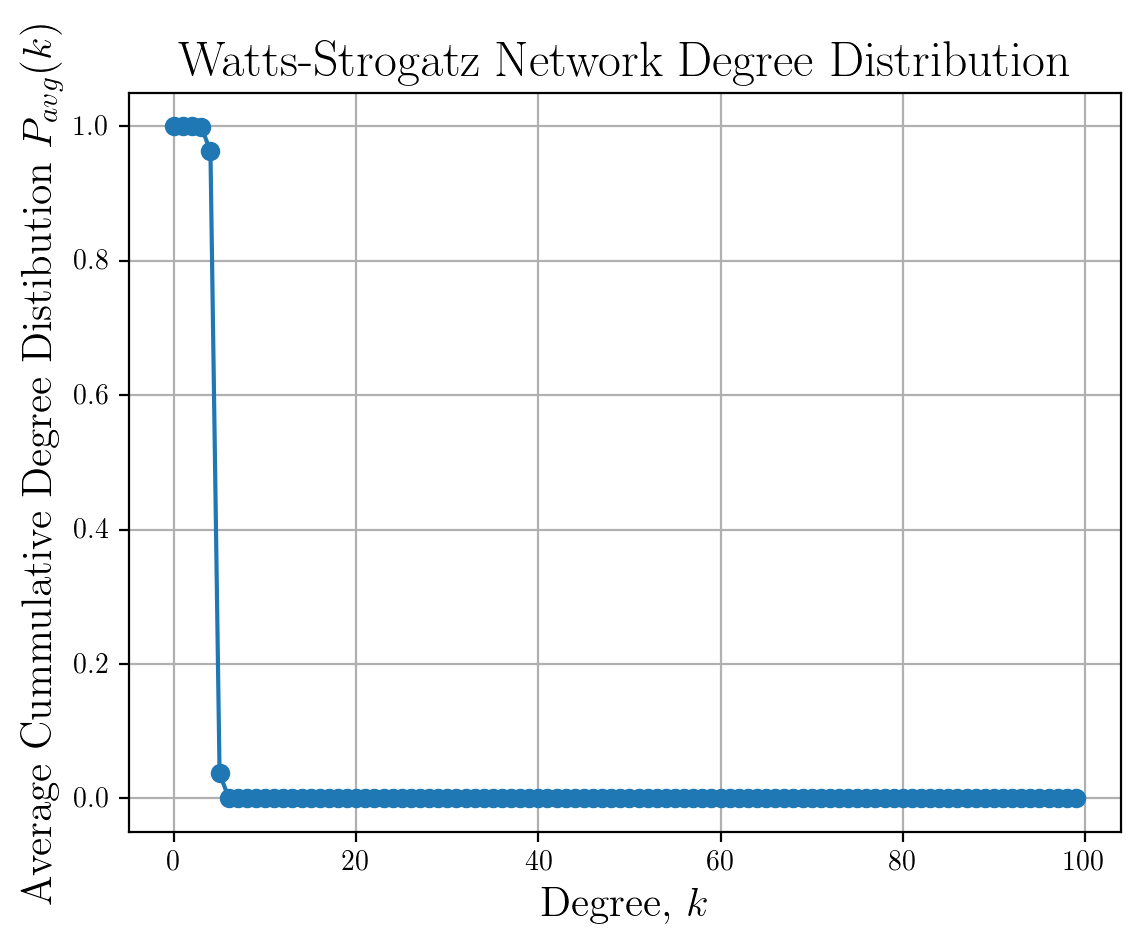
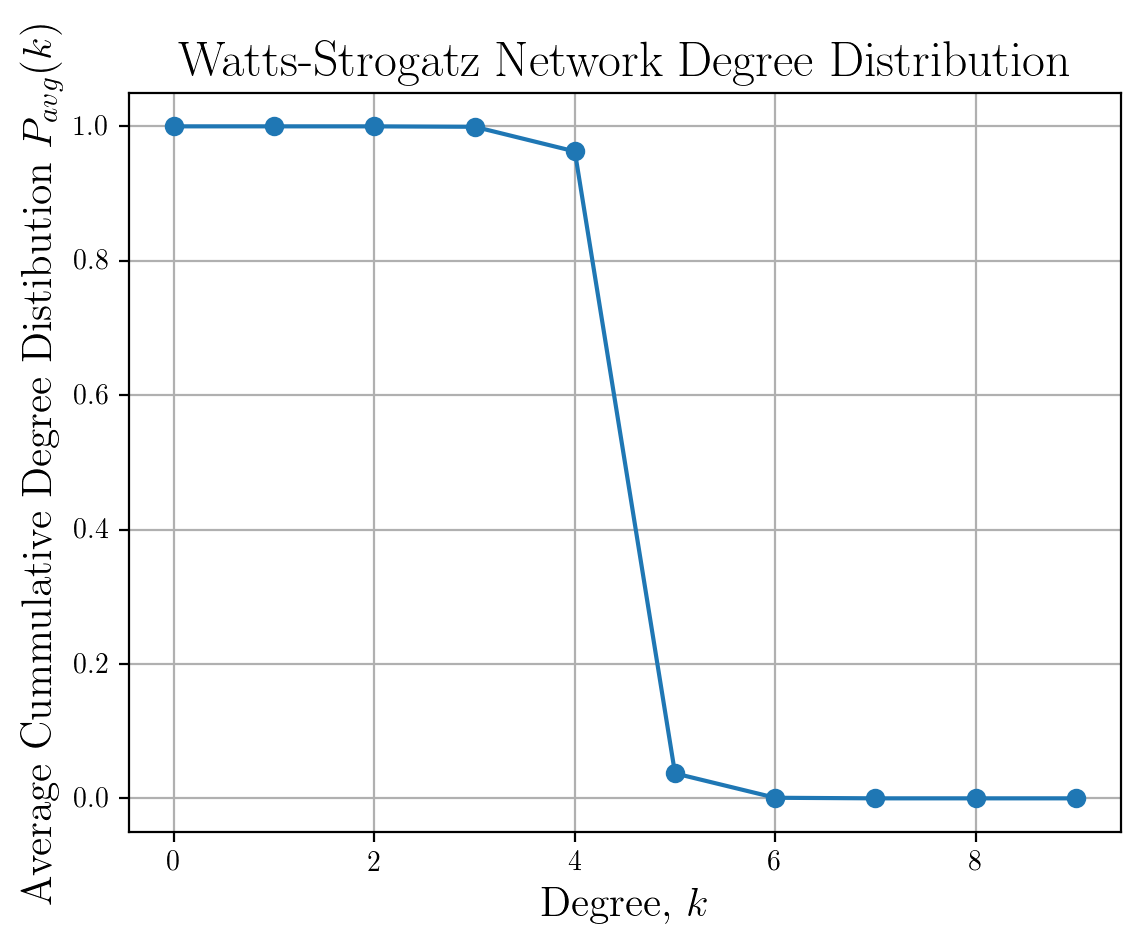
Plots corrigidos degree dist

diff --git a/Simulations/degree_dist.py b/Simulations/degree_dist.py
@@ -48,14 +48,17 @@ def degree_dist():
     for i in range(deg_max - 2, -1, -1):
         degree_freq[i] += degree_freq[i + 1]
 
-    # plt.rc('text', usetex=True)
-    # plt.rc('font', family='serif')
+    plt.rc('text', usetex=True)
+    plt.rc('font', family='serif')
 
     plot = plt.plot if model in (4, 5) else (plt.semilogy if model == 6 else plt.loglog)
     
     f1 = plt.figure()
     plot(range(deg_max), degree_freq, 'o-')
-    plt.ylabel(r'Average Cummulative Degree Distibution $P_{avg}(k)$', fontsize=15)
+    if model == 6 or model == 7:
+        plt.ylabel(r'Cummulative Degree Distibution $P_{avg}(k)$', fontsize=15)
+    else:
+        plt.ylabel(r'Average Cummulative Degree Distibution $P_{avg}(k)$', fontsize=15)
     plt.xlabel(r'Degree, $k$', fontsize=15)
     plt.title(rf'{graphs_name[model]} Network Degree Distribution', fontsize=18)
     if model not in (4, 5, 6):
